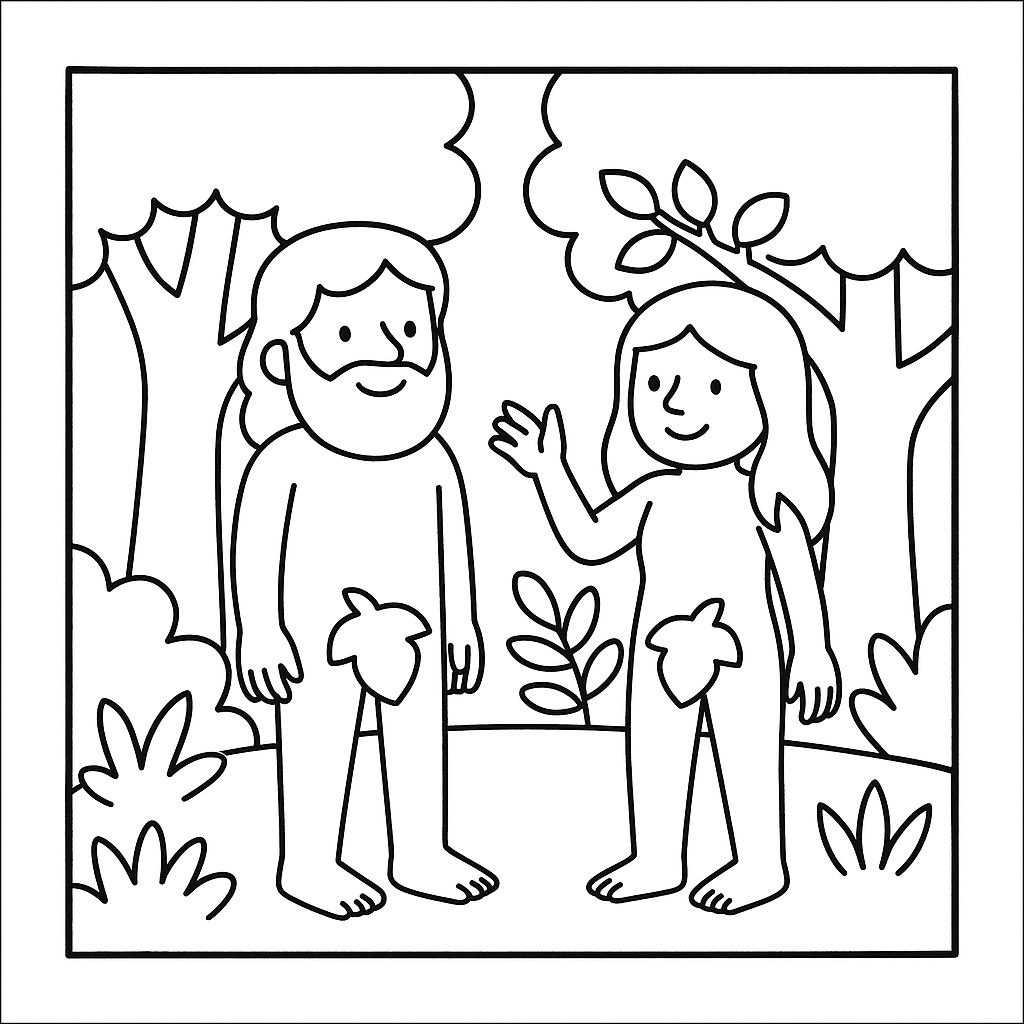
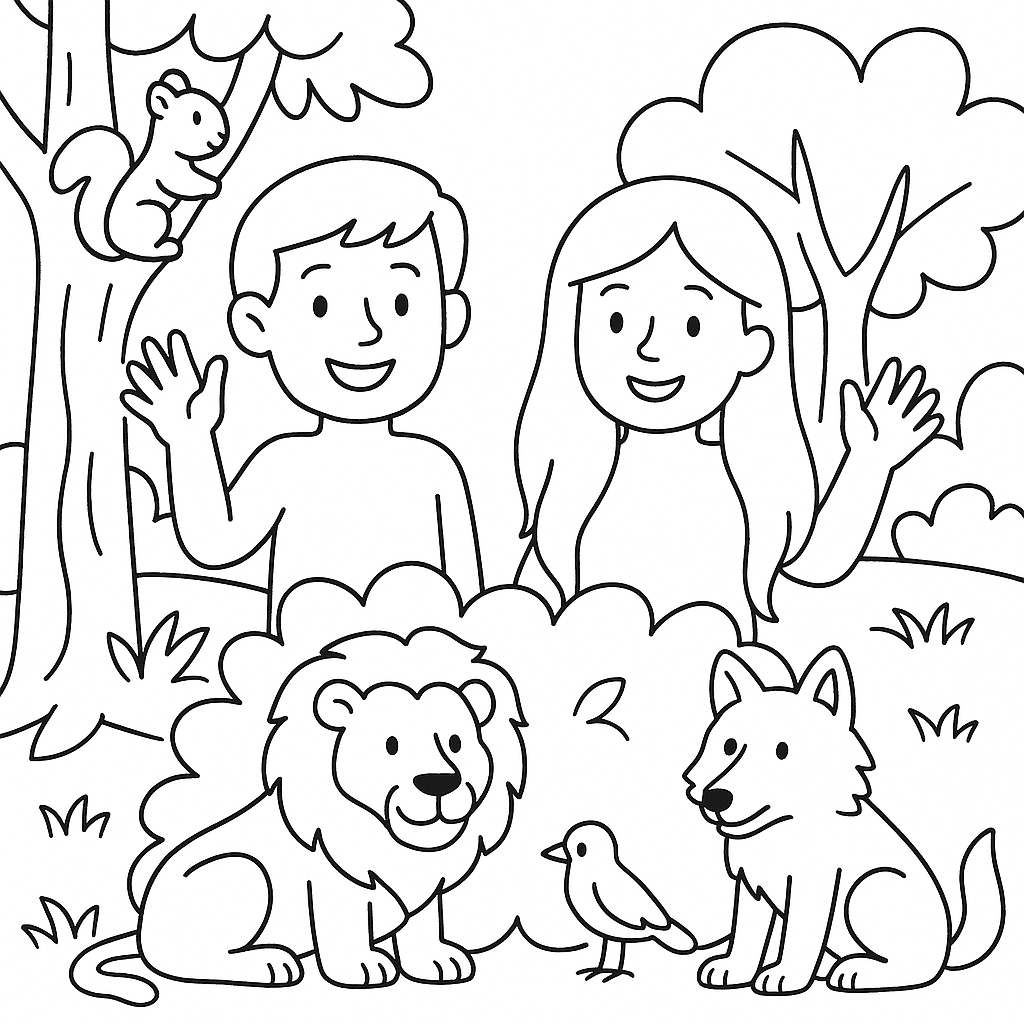
updated generate a/b

diff --git a/verse_helpers.py b/verse_helpers.py
@@ -202,12 +202,25 @@ def normalize_reference_title(ref: str) -> str:
     trimmed = " ".join(ref.split())
     if not trimmed:
         return ""
-    parts = trimmed.split(" ")
-    if parts[0].isdigit() and len(parts) > 1:
-        lead = parts[0]
-        rest = " ".join(parts[1:]).title()
-        return f"{lead} {rest}"
-    return trimmed.title()
+    # Title-case the book name but leave the verse portion untouched so suffixes
+    # like "18a" or "18b" stay lowercase.
+    parts = re.search(r"\s\d", trimmed)
+    if parts:
+        book = trimmed[: parts.start()].strip()
+        verse_part = trimmed[parts.start() :].strip()
+    else:
+        book = trimmed
+        verse_part = ""
+
+    book_words = book.split(" ")
+    if book_words and book_words[0].isdigit() and len(book_words) > 1:
+        book_title = f"{book_words[0]} {' '.join(book_words[1:]).title()}"
+    else:
+        book_title = book.title()
+
+    if verse_part:
+        return f"{book_title} {verse_part}".strip()
+    return book_title
 
 
 def split_version_from_reference(text: str, fallback_version: str = "kjv") -> Tuple[str, str]:

diff --git a/app.py b/app.py
@@ -13,7 +13,13 @@ from datetime import datetime, timedelta, timezone
 from firebase_admin import firestore
 from werkzeug.utils import secure_filename
 from werkzeug.middleware.proxy_fix import ProxyFix
-from verse_helpers import request_verse_data, parse_and_clean_json, save_json_to_file, ai_validate_custom_text
+from verse_helpers import (
+    request_verse_data,
+    parse_and_clean_json,
+    save_json_to_file,
+    ai_validate_custom_text,
+    normalize_reference_title,
+)
 from build_pdf import generate_pdf
 from PIL import Image, ImageDraw, ImageFont
 try:
@@ -437,7 +443,7 @@ def extract_version_from_text(text, fallback_version):
     else:
         version = fallback_version
         verse = text.strip()
-    return version, verse.title()
+    return version, normalize_reference_title(verse)
 
 
 def _boolish(value, default=False):

diff --git a/faithsparks/views/worksheets.py b/faithsparks/views/worksheets.py
@@ -25,6 +25,7 @@ from verse_helpers import (
     parse_and_clean_json,
     save_json_to_file,
     ai_validate_custom_text,
+    normalize_reference_title,
 )
 from build_pdf import generate_pdf
 from PIL import Image, ImageDraw, ImageFont
@@ -782,4 +783,4 @@ def extract_version_from_text(text, fallback_version):
     else:
         version = fallback_version
         verse = text.strip()
-    return version, verse.title()
+    return version, normalize_reference_title(verse)
